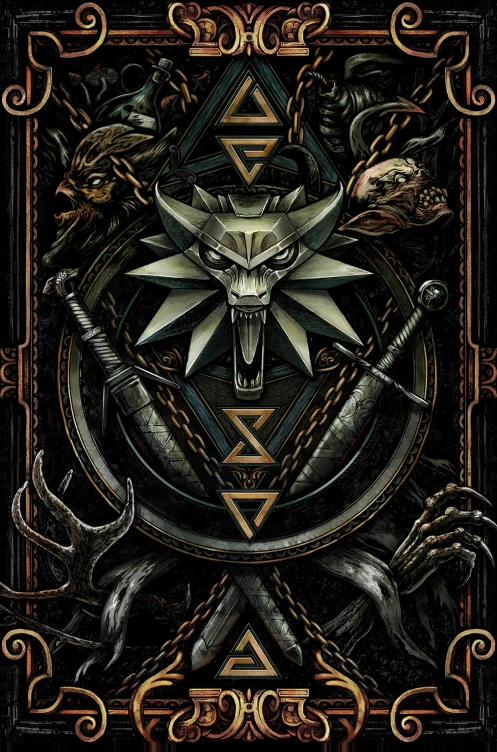
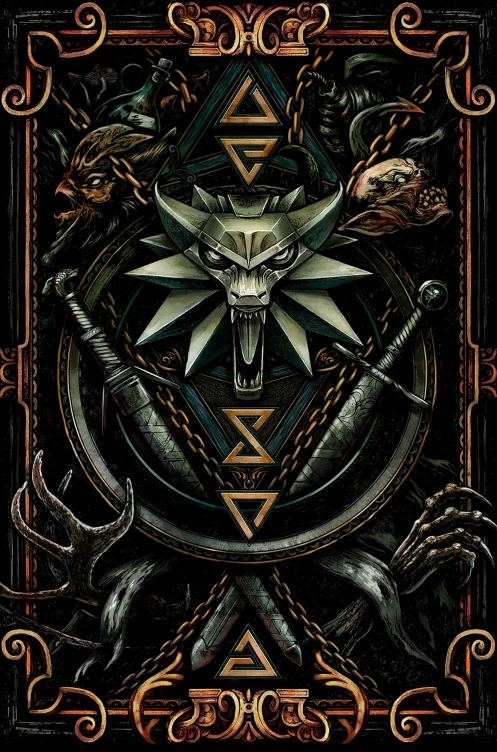
Add new card backs

diff --git a/README.md b/README.md
@@ -2,7 +2,7 @@
 
 All cards from [GWENT: The Witcher Card Game](https://www.playgwent.com/invite-a-friend/K0QX78TVLX)!
 * 986 cards front
-* 40 cards back
+* 45 cards back
 
 They were extracted from the game files and converted to WebP format. 
 * Original images have 100% quality (lossless encoding)
